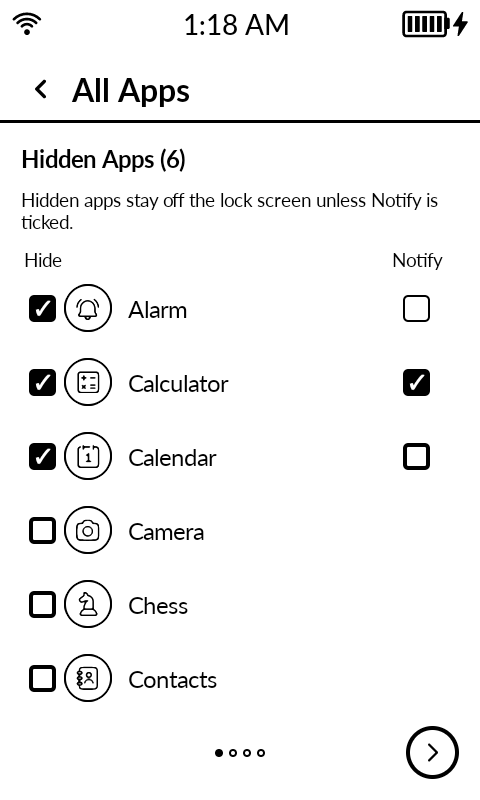
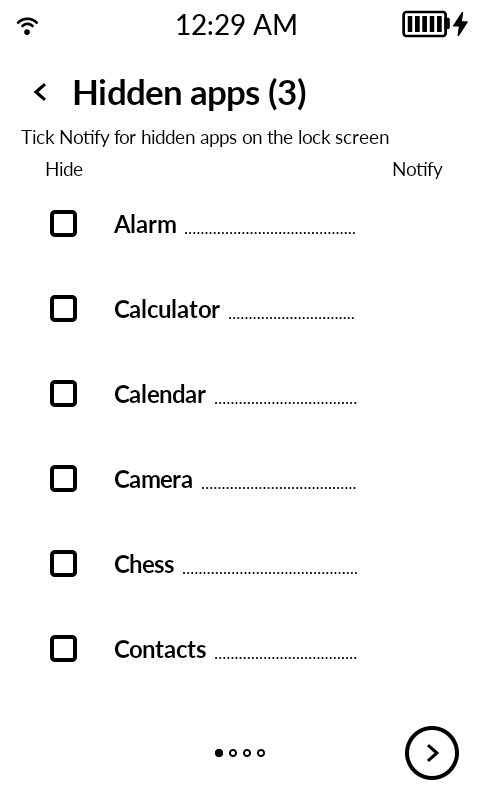
Release v0.2

diff --git a/docs/index.html b/docs/index.html
@@ -33,7 +33,7 @@
         "url": "https://alexindigo.github.io/kotatsu/",
         "applicationCategory": "UtilitiesApplication",
         "operatingSystem": "Android 11 or newer",
-        "softwareVersion": "0.1",
+        "softwareVersion": "0.2",
         "image": "https://alexindigo.github.io/kotatsu/img/screenshots/kotatsu_home.png",
         "downloadUrl": "https://github.com/alexindigo/kotatsu/releases/latest",
         "license": "https://github.com/alexindigo/kotatsu/blob/main/LICENSE",
@@ -130,7 +130,7 @@
         </div>
         <div class="screen-grid">
             <figure>
-                <a class="screen" href="img/screenshots/kotatsu_hidden_apps.png"><img loading="lazy" src="img/screenshots/kotatsu_hidden_apps.png" width="480" height="800" alt="Hidden Apps settings with separate Hide and Notify columns"></a>
+                <a class="screen" href="img/screenshots/kotatsu_hidden_apps.png"><img loading="lazy" src="img/screenshots/kotatsu_hidden_apps.png" width="480" height="800" alt="Hidden apps page with separate Hide and Notify columns"></a>
                 <figcaption>Hiding an app and allowing lock-screen notifications are separate choices.</figcaption>
             </figure>
             <figure>
@@ -156,21 +156,21 @@
             <p>Install updates manually from <a href="https://github.com/alexindigo/kotatsu/releases/latest">the latest release</a>.</p>
         </div>
         <div class="download-panel">
-            <h3>Version 0.1</h3>
+            <h3>Version 0.2</h3>
             <p>The launcher and Weather are installed separately. Weather is optional.</p>
             <div class="download-row">
-                <a class="button primary" href="https://github.com/alexindigo/kotatsu/releases/download/v0.1/kotatsu-v0.1.apk">Download launcher</a>
-                <span>kotatsu-v0.1.apk</span>
+                <a class="button primary" href="https://github.com/alexindigo/kotatsu/releases/download/v0.2/kotatsu-v0.2.apk">Download launcher</a>
+                <span>kotatsu-v0.2.apk</span>
             </div>
             <div class="download-row">
-                <a class="button" href="https://github.com/alexindigo/kotatsu/releases/download/v0.1/kotatsu-weather-v0.1.apk">Download Weather</a>
-                <span>kotatsu-weather-v0.1.apk</span>
+                <a class="button" href="https://github.com/alexindigo/kotatsu/releases/download/v0.2/kotatsu-weather-v0.2.apk">Download Weather</a>
+                <span>kotatsu-weather-v0.2.apk</span>
             </div>
-            <p><a href="https://github.com/alexindigo/kotatsu/releases/tag/v0.1">Release notes and assets</a></p>
+            <p><a href="https://github.com/alexindigo/kotatsu/releases/tag/v0.2">Release notes and assets</a></p>
             <details>
                 <summary>Signing certificate SHA-256</summary>
                 <p class="fingerprint">8fa0f259c8cf159d9fa4d995ab1b55fae7eb3c463a249b985b20107edfbbf607</p>
-                <p>This identifies the APK signing certificate, not the APK file checksum. Inspect a download with Android SDK Build Tools: <code>apksigner verify --print-certs kotatsu-v0.1.apk</code>.</p>
+                <p>This identifies the APK signing certificate, not the APK file checksum. Inspect a download with Android SDK Build Tools: <code>apksigner verify --print-certs kotatsu-v0.2.apk</code>.</p>
             </details>
         </div>
     </section>

diff --git a/tools/verify_fork.py b/tools/verify_fork.py
@@ -228,7 +228,7 @@ def execution_identity(root,base,args):
 def source_identity(root,base,index_path,execution=None):
     provenance=execution_identity(root,base,execution)
     build=(root/'app/build.gradle.kts').read_text();original=baseline_bytes(root,base,'app/build.gradle.kts').decode()
-    require(build==original.replace('archivesName.set("katapult-v1.6")','archivesName.set("kotatsu-v0.1")').replace('applicationId = "com.gezimos.katapult"','applicationId = "'+RELEASE_ID+'"').replace('versionCode = 7','versionCode = 8').replace('versionName = "1.6"','versionName = "0.1"'),'Build versions/dependencies/signing/optimization or namespace changed beyond identity')
+    require(build==original.replace('archivesName.set("katapult-v1.6")','archivesName.set("kotatsu-v0.2")').replace('applicationId = "com.gezimos.katapult"','applicationId = "'+RELEASE_ID+'"').replace('versionCode = 7','versionCode = 9').replace('versionName = "1.6"','versionName = "0.2"'),'Build versions/dependencies/signing/optimization or namespace changed beyond identity')
     settings=(root/'settings.gradle.kts').read_bytes()
     require(settings==baseline_bytes(root,base,'settings.gradle.kts').replace(b'rootProject.name = "Katapult"',b'rootProject.name = "Kotatsu"'),'Root settings changed beyond identity')
     baseline_manifest=ET.fromstring(baseline_bytes(root,base,'app/src/main/AndroidManifest.xml'));manifest=ET.parse(root/'app/src/main/AndroidManifest.xml').getroot()
@@ -647,7 +647,7 @@ def apk_identity(args):
     analyzer_xml=command(args.apkanalyzer,'manifest','print',apk);manifest=ET.fromstring(analyzer_xml)
     require(manifest.tag=='manifest' and manifest.get('package')==expected,'Actual compiled package mismatch')
     badging=parse_badging(command(args.aapt2,'dump','badging',apk))
-    require(badging['package']==expected and badging['versionCode']=='8' and badging['versionName']==('0.1-debug' if args.variant=='debug' else '0.1'),'Compiled APK version/ID mismatch')
+    require(badging['package']==expected and badging['versionCode']=='9' and badging['versionName']==('0.2-debug' if args.variant=='debug' else '0.2'),'Compiled APK version/ID mismatch')
     label='Kotatsu Debug' if args.variant=='debug' else 'Kotatsu'
     require(all(v==label for v in badging['labels'].values()),'Wrong compiled locale label')
     require(set(x.removeprefix('-') for x in LOCALES if x)<=set(badging['labels']),'Missing compiled existing locale labels')

diff --git a/tools/tests/test_apk_identity_flow.py b/tools/tests/test_apk_identity_flow.py
@@ -57,7 +57,7 @@ class ApkIdentityFlowTest(unittest.TestCase):
             file=f'res/v{i}.xml';self.xml[file]=data.decode();self.payloads[file]=b'compiled vector'
             self.resources+=f'  resource 0x7f00000{i} {name}\n    () (file) {file} type=XML\n'
         self.write_zip()
-        self.version = '0.1-debug'
+        self.version = '0.2-debug'
         self.labels = {locale.lstrip('-') or 'default': 'Kotatsu Debug' for locale in verify.LOCALES}
         self.debuggable = True
         self.min_sdk = '30'
@@ -111,7 +111,7 @@ class ApkIdentityFlowTest(unittest.TestCase):
             return ET.tostring(self.manifest, encoding='unicode')
         if args[1:3] == ('dump', 'badging'):
             labels = '\n'.join(f"application-label{'' if locale == 'default' else '-' + locale}:'{value}'" for locale, value in self.labels.items())
-            return f"package: name='{self.package}' versionCode='8' versionName='{self.version}'\n{labels}\n" + ('application-debuggable\n' if self.debuggable else '')
+            return f"package: name='{self.package}' versionCode='9' versionName='{self.version}'\n{labels}\n" + ('application-debuggable\n' if self.debuggable else '')
         if args[1:3] == ('manifest', 'min-sdk'):
             return self.min_sdk
         if args[1:3] == ('manifest', 'target-sdk'):
@@ -175,7 +175,7 @@ class ApkIdentityFlowTest(unittest.TestCase):
         for wrong_version in ('1.6-debug', '2.0'):
             self.version = wrong_version
             self.rejected('Compiled APK version/ID mismatch')
-        self.version = '0.1-debug'
+        self.version = '0.2-debug'
         self.min_sdk = '32'
         self.rejected('Compiled SDK mismatch')
 
@@ -193,7 +193,7 @@ class ApkIdentityFlowTest(unittest.TestCase):
         self.manifest.set('package', self.package)
         self.xml['res/c.xml'] = self.xml['res/c.xml'].replace(verify.RELEASE_ID + '.debug', self.package)
         self.labels = {locale: 'Kotatsu' for locale in self.labels}
-        self.version = '0.1'
+        self.version = '0.2'
         self.debuggable = False
         release_dir = self.directory.parent / 'release'
         self.directory.rename(release_dir)

diff --git a/tools/tests/test_verify_fork.py b/tools/tests/test_verify_fork.py
@@ -38,7 +38,7 @@ class ArtifactSelectionTest(unittest.TestCase):
     def setUp(self):
         self.temp=tempfile.TemporaryDirectory();self.root=Path(self.temp.name)
         self.directory=self.root/'app/build/outputs/apk/debug';self.directory.mkdir(parents=True)
-        self.apk=self.directory/'kotatsu-v0.1-debug.apk';self.apk.write_bytes(b'fixture apk')
+        self.apk=self.directory/'kotatsu-v0.2-debug.apk';self.apk.write_bytes(b'fixture apk')
         self.metadata={'variantName':'debug','applicationId':verify.RELEASE_ID+'.debug','elements':[{'outputFile':self.apk.name}]}
         self.write()
     def tearDown(self):self.temp.cleanup()
@@ -69,7 +69,7 @@ class ArtifactSelectionTest(unittest.TestCase):
 
 class ToolParsingTest(unittest.TestCase):
     def test_actual_badging_shape_with_locale_labels(self):
-        text="package: name='com.alexindigo.kotatsu.debug' versionCode='8' versionName='0.1-debug'\napplication-label:'Kotatsu Debug'\napplication-label-de:'Kotatsu Debug'\napplication-debuggable\n"
+        text="package: name='com.alexindigo.kotatsu.debug' versionCode='9' versionName='0.2-debug'\napplication-label:'Kotatsu Debug'\napplication-label-de:'Kotatsu Debug'\napplication-debuggable\n"
         result=verify.parse_badging(text);self.assertTrue(result['debuggable']);self.assertEqual(result['labels']['de'],'Kotatsu Debug')
     def test_malformed_badging_fails_closed(self):
         for text in ('','package: malformed','application-label:\'Kotatsu\''):
@@ -282,7 +282,7 @@ class CompactGeometryTest(unittest.TestCase):
                     target=p.parent/path
                 self.assertTrue(target.is_file(),path)
             self.assertNotIn('Temporary inherited upstream wordmark',text)
-        self.assertIn('"softwareVersion": "0.1"',(root/'docs/index.html').read_text())
+        self.assertIn('"softwareVersion": "0.2"',(root/'docs/index.html').read_text())
 
     def test_path_parser_normalizes_actual_relative_and_implicit_commands(self):
         self.assertEqual(verify.path_geometry('M1 2h3v4l-3 0z'),verify.path_geometry('m1,2 3,0 0,4 -3,0 Z'))

diff --git a/README.md b/README.md
@@ -10,7 +10,7 @@ Kotatsu is a privacy-focused Android launcher for the Mudita Kompakt e-ink phone
 
 **The launcher has no Internet permission or built-in updater.** Kotatsu Weather is a separate, optional app that uses the network.
 
-[Download the latest release](https://github.com/alexindigo/kotatsu/releases/latest) · [Website](https://alexindigo.github.io/kotatsu/) · [What's new in 0.1](CHANGELOG.md)
+[Download the latest release](https://github.com/alexindigo/kotatsu/releases/latest) · [Website](https://alexindigo.github.io/kotatsu/) · [What's new in 0.2](CHANGELOG.md)
 
 Kotatsu on a Mudita Kompakt:
 
@@ -23,7 +23,7 @@ Kotatsu on a Mudita Kompakt:
             <td><img src='docs/img/screenshots/kotatsu_weather_setup.png' height='300' alt="Kotatsu Weather places"></td>
         </tr>
         <tr>
-            <td><img src='docs/img/screenshots/kotatsu_hidden_apps.png' height='300' alt="Hidden Apps with Hide and Notify controls"></td>
+            <td><img src='docs/img/screenshots/kotatsu_hidden_apps.png' height='300' alt="Hidden apps page with Hide and Notify controls"></td>
             <td><img src='docs/img/screenshots/kotatsu_home_wallpaper.png' height='300' alt="Home screen with a wallpaper and no text backgrounds"></td>
             <td><img src='docs/img/screenshots/kotatsu_lockscreen_widgets.png' height='300' alt="Lock-screen widgets settings"></td>
             <td><img src='docs/img/screenshots/kotatsu_home_dark.png' height='300' alt="Dark home screen with battery percentage and no wallpaper"></td>
@@ -46,12 +46,12 @@ Kotatsu on a Mudita Kompakt:
 
 Requires **Android 11 or newer** (API 30). Kompakt-specific integration, including lock-screen widget hosting, is designed for the Mudita Kompakt.
 
-Get the APKs from [Kotatsu Releases](https://github.com/alexindigo/kotatsu/releases/latest). The [v0.1 release](https://github.com/alexindigo/kotatsu/releases/tag/v0.1) includes:
+Get the APKs from [Kotatsu Releases](https://github.com/alexindigo/kotatsu/releases/latest). The [v0.2 release](https://github.com/alexindigo/kotatsu/releases/tag/v0.2) includes:
 
 | # | APK | Install for |
 |---|---|---|
-| 1 | [kotatsu-v0.1.apk](https://github.com/alexindigo/kotatsu/releases/download/v0.1/kotatsu-v0.1.apk) | The launcher |
-| 2 | [kotatsu-weather-v0.1.apk](https://github.com/alexindigo/kotatsu/releases/download/v0.1/kotatsu-weather-v0.1.apk) | Optional weather widget; separate app with network access |
+| 1 | [kotatsu-v0.2.apk](https://github.com/alexindigo/kotatsu/releases/download/v0.2/kotatsu-v0.2.apk) | The launcher |
+| 2 | [kotatsu-weather-v0.2.apk](https://github.com/alexindigo/kotatsu/releases/download/v0.2/kotatsu-weather-v0.2.apk) | Optional weather widget; separate app with network access |
 
 Open the downloaded APK on the phone and allow installation from that source when Android asks. Open Kotatsu to preview it; choose it as the default Home app in Android settings when ready. Updates are installed manually from Releases.
 
@@ -61,7 +61,7 @@ The release APK signing certificate's **SHA-256** is:
[1 lines of base64/hex data omitted]
 ```
 
-This is the certificate fingerprint, not an APK file checksum. With Android SDK Build Tools installed, inspect an APK using `apksigner verify --print-certs kotatsu-v0.1.apk`.
+This is the certificate fingerprint, not an APK file checksum. With Android SDK Build Tools installed, inspect an APK using `apksigner verify --print-certs kotatsu-v0.2.apk`.
 
 ## Kotatsu Weather
 

diff --git a/CHANGELOG.md b/CHANGELOG.md
@@ -2,6 +2,21 @@
 
 Kotatsu changelog. The sections after 0.1 are inherited Katapult history through v1.6.
 
+## [0.2] — 2026-10-25
+
+### Added
+- **App Store**: a Settings entry opens F-Droid, or explains how to get it when it is not installed.
+
+### Changed
+- **Settings**: rebuilt in the Paper index style, with a table of contents and live summaries, grouped chapters, choice pages and "?" help. Settings pages replace slide-in sheets, Back returns one level, and switches use On/Off words.
+- **E-ink controls**: moved into Appearance alongside the other screen settings.
+- **App icons**: bundled and catalogue glyphs and newly imported artwork are capped at 54% of the icon tile. Mudita artwork and existing saved imports stay unchanged. The Kotatsu Weather glyph is smaller, with its frame unchanged.
+- **Action Service reminder**: one dismissible notice replaces repeated warnings in Settings.
+- **README and website**: refreshed with Kotatsu's own screenshots, features and installation guide.
+
+### Fixed
+- **Settings wording**: consistent "Lock screen" labels, a single % in "Show battery %", clearer descriptions for Android's Notification log and Notification history, and a positive "Music widget" switch.
+
 ## [0.1] — 2026-10-18
 
 First Kotatsu release, based on Katapult 1.6.

diff --git a/docs/ICON_CATALOGUE.md b/docs/ICON_CATALOGUE.md
@@ -93,7 +93,7 @@ access workflow. The current guest checkout is
 `/srv/kotatsu/source/kotatsu-release-20261013`. Inside that guest:
 
 ```bash
-python -B tools/verify_icon_catalogue.py --root "$PWD" --apk app/build/outputs/apk/release/kotatsu-v0.1-release.apk
+python -B tools/verify_icon_catalogue.py --root "$PWD" --apk app/build/outputs/apk/release/kotatsu-v0.2-release.apk
 ```
 
 The verifier checks every named entry and actual packaged asset byte, included
